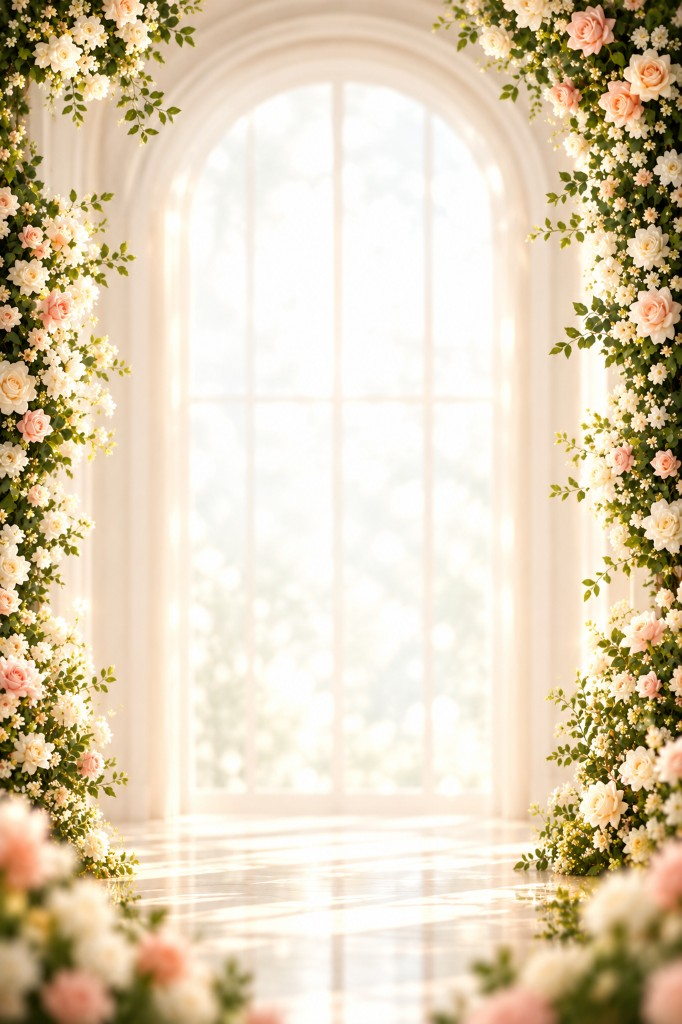
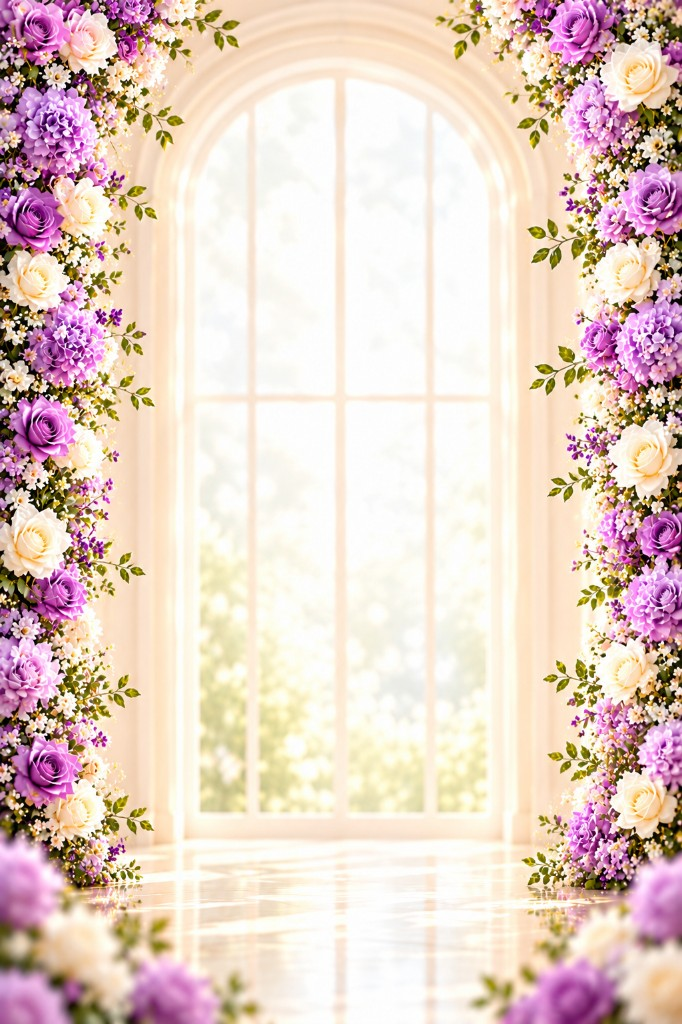
Let the couple portrait share a base with the countdown.

diff --git a/src/app/globals.css b/src/app/globals.css
@@ -111,33 +111,32 @@ body {
   z-index: 12;
   display: flex;
   flex: 1 1 auto;
-  flex-direction: column;
-  align-items: center;
+  align-items: stretch;
   justify-content: flex-end;
   min-height: 0;
+  width: 100%;
   margin-top: 0.15rem;
+  padding-bottom: 0.85rem;
   pointer-events: none;
 }
 
 .hero-couple-shot {
   display: flex;
+  flex: 1 1 auto;
   align-items: flex-end;
   justify-content: center;
+  width: 100%;
   min-height: 0;
-  max-height: 100%;
-  flex: 0 1 auto;
 }
 
 .hero-couple img {
   display: block;
-  height: auto;
   width: auto;
+  height: auto;
+  max-width: min(100%, 36rem);
   max-height: 100%;
-  max-width: min(78vw, 24rem);
   object-fit: contain;
   object-position: bottom center;
-  -webkit-mask-image: linear-gradient(to bottom, #000 0%, #000 90%, transparent 100%);
-  mask-image: linear-gradient(to bottom, #000 0%, #000 90%, transparent 100%);
 }
 
 @media (max-width: 767px) {
@@ -171,8 +170,16 @@ body {
     padding-bottom: 0;
   }
 
+  .hero-couple {
+    padding-bottom: 0.7rem;
+  }
+
   .hero-couple img {
-    max-width: min(82vw, 22rem);
+    max-width: min(104vw, 28rem);
+  }
+
+  .countdown-board {
+    bottom: 0.7rem;
   }
 
   .hero-date::before,
@@ -430,13 +437,16 @@ body {
 }
 
 .countdown-board {
-  position: relative;
-  z-index: 3;
+  position: absolute;
+  z-index: 4;
+  left: 50%;
+  bottom: 0.85rem;
   display: flex;
   flex: 0 0 auto;
   align-items: stretch;
   width: min(92vw, 20.75rem);
-  margin: 0.15rem 0 1.15rem;
+  margin: 0;
+  transform: translateX(-50%);
   padding: 0.12rem 0.35rem;
   border-radius: 999px;
   border: 1px solid rgba(154, 98, 192, 0.48);
@@ -492,12 +502,13 @@ body {
   }
 
   .hero-couple {
-    min-height: 34vh;
+    min-height: 42vh;
+    padding-bottom: 1rem;
   }
 
   .hero-couple img {
-    max-width: min(32vw, 22rem);
-    max-height: 32vh;
+    max-width: min(44vw, 34rem);
+    max-height: min(46vh, 100%);
   }
 
   .gallery-flow {
@@ -549,8 +560,9 @@ body {
   }
 
   .countdown-board {
+    bottom: 1rem;
     width: min(92vw, 28rem);
-    margin: 0.55rem 0 0.7rem;
+    margin: 0;
     padding: 0.2rem 0.7rem;
   }
 
